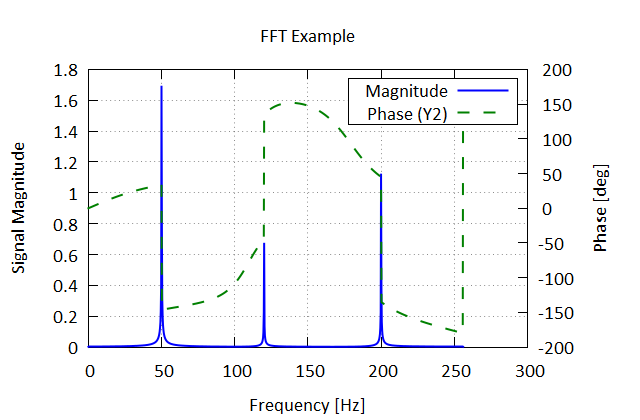
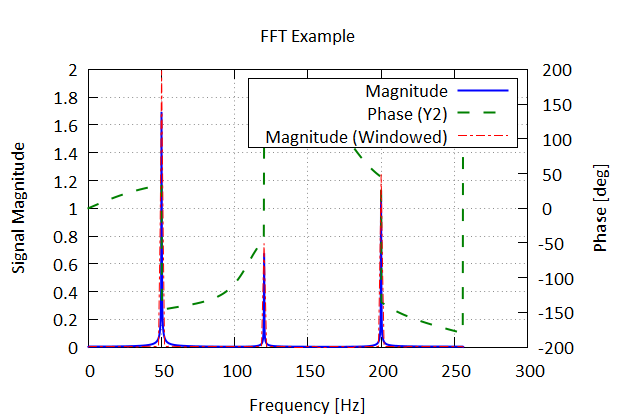
Update example

diff --git a/README.md b/README.md
@@ -214,15 +214,17 @@ program example
 
     ! Parameters
     integer(int32), parameter :: npts = 2000
+    integer(int32), parameter :: winsize = 512
     real(real64), parameter :: freq = 512.0d0 ! Signal sampled at 512 Hz
 
     ! Local Variables
     integer(int32) :: i
-    real(real64) :: dt, t(npts), s(npts)
+    real(real64) :: dt, t(npts), s(npts), sWin(npts)
     complex(real64), allocatable, dimension(:) :: xfrm
-    real(real64), allocatable, dimension(:) :: x, f, p
+    real(real64), allocatable, dimension(:) :: x, f, p, xWin, fWin
+    procedure(window_function), pointer :: win
     type(plot_2d) :: plt
-    type(plot_data_2d) :: d1, d2
+    type(plot_data_2d) :: d1, d2, d3
     class(plot_axis), pointer :: xAxis, yAxis, y2Axis
 
     ! Build the signal
@@ -232,6 +234,7 @@ program example
         s(i) = 2.0d0 * sin(2.0d0 * pi * 50.0d0 * t(i)) + &
             0.75 * sin(2.0d0 * pi * 120.0d0 * t(i)) + &
             1.25 * sin(2.0d0 * pi * 200.0d0 * t(i))
+        sWin(i) = s(i)
         if (i < npts) t(i+1) = t(i) + dt
     end do
     
@@ -252,6 +255,7 @@ program example
     call plt%push(d1)
     call plt%draw()
 
+! ------------------------------------------------------------------------------
     ! Now that the signal has been defined, compute it's FFT, and then display
     ! its magnitude and phase as a function of frequency
     xfrm = rfft(s)  ! Notice, s is modified by this function
@@ -265,11 +269,15 @@ program example
     p = atan2(aimag(xfrm), real(xfrm, real64)) * (180.0d0 / pi)
 
     ! The corresponding frequency values can be determined as follows
-    allocate(f(size(x)))
-    do i = 1, size(x)
-        f(i) = freq * (i - 1.0d0) / npts
-    end do
+    f = frequencies(freq, npts)
+
+! ------------------------------------------------------------------------------
+    ! An alternate approach, using a Hamming window
+    win => hamming_window
+    xWin = signal_magnitude(sWin, win, winsize)
+    fWin = frequencies(freq, winsize)
     
+! ------------------------------------------------------------------------------
     ! Plot the results.  Amplitude on the primary axis, and phase on the 
     ! secondary axis
     call plt%clear_all()
@@ -296,8 +304,16 @@ program example
     call d2%set_line_style(LINE_DASHED)
     call d2%set_draw_against_y2(.true.)
 
+    call d3%define_data(fWin, xWin)
+    call d3%set_name("Magnitude (Windowed)")
+    call d3%set_use_auto_color(.false.)
+    call d3%set_line_color(CLR_RED)
+    call d3%set_line_width(1.0)
+    call d3%set_line_style(LINE_DASH_DOTTED)
+
     call plt%push(d1)
     call plt%push(d2)
+    call plt%push(d3)
     call plt%draw()
 end program
 ```
@@ -305,7 +321,7 @@ The above program produces the following plots.
 ![](images/fft_example_signal.png?raw=true)
 ![](images/fft_example_spectrum.png?raw=true)
 
-Notice, there is some leakage as the signal amplitudes aren't quite correct in the plot.  This could be treated with windowing, or using a data set length that would result in better frequency bin alignment (i.e. an integer power of two).
+Notice, there is some leakage as the signal amplitudes aren't quite correct in the plot for the non-windowed data.  As is shown, this can be treated with windowing (shown), or using a data set length that would result in better frequency bin alignment (i.e. an integer power of two).
 
 ## References
 1. Jazar, Reza N., "Theory of Applied Robotics."  New York: Springer, 2007.
